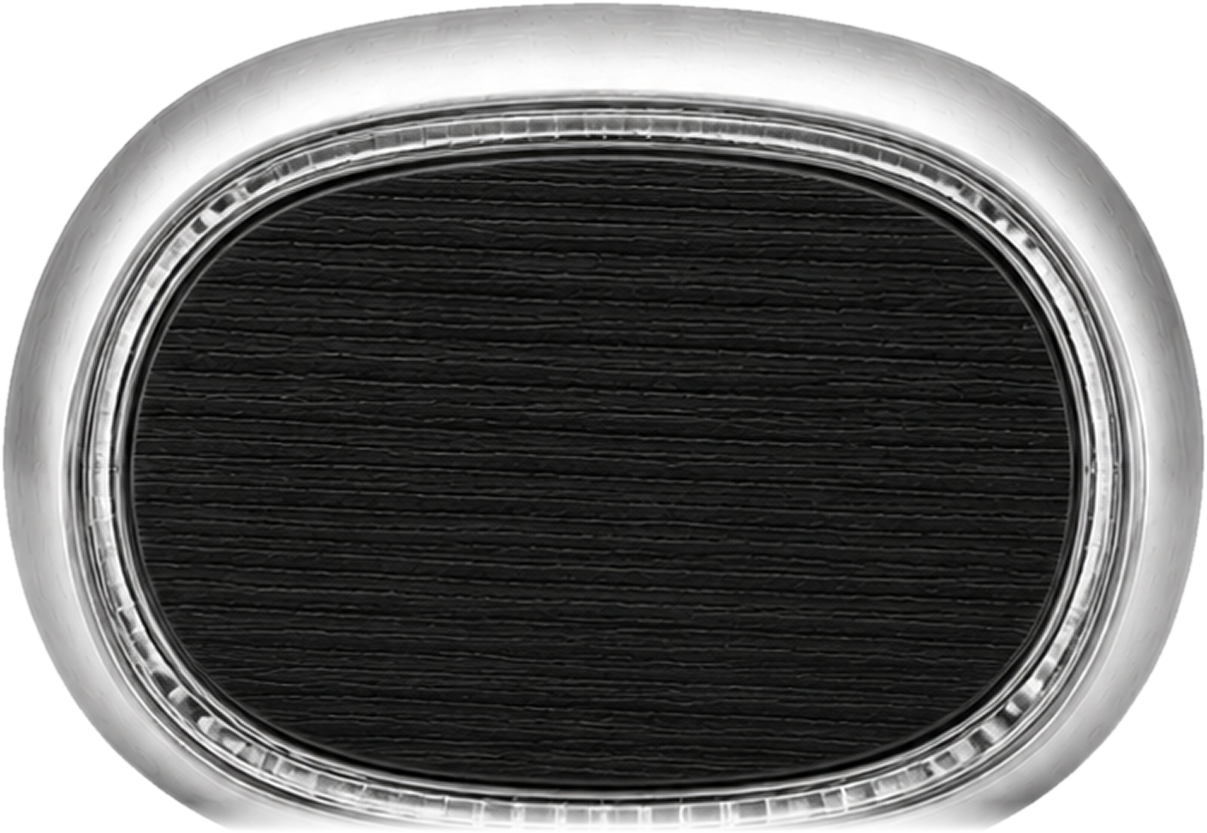
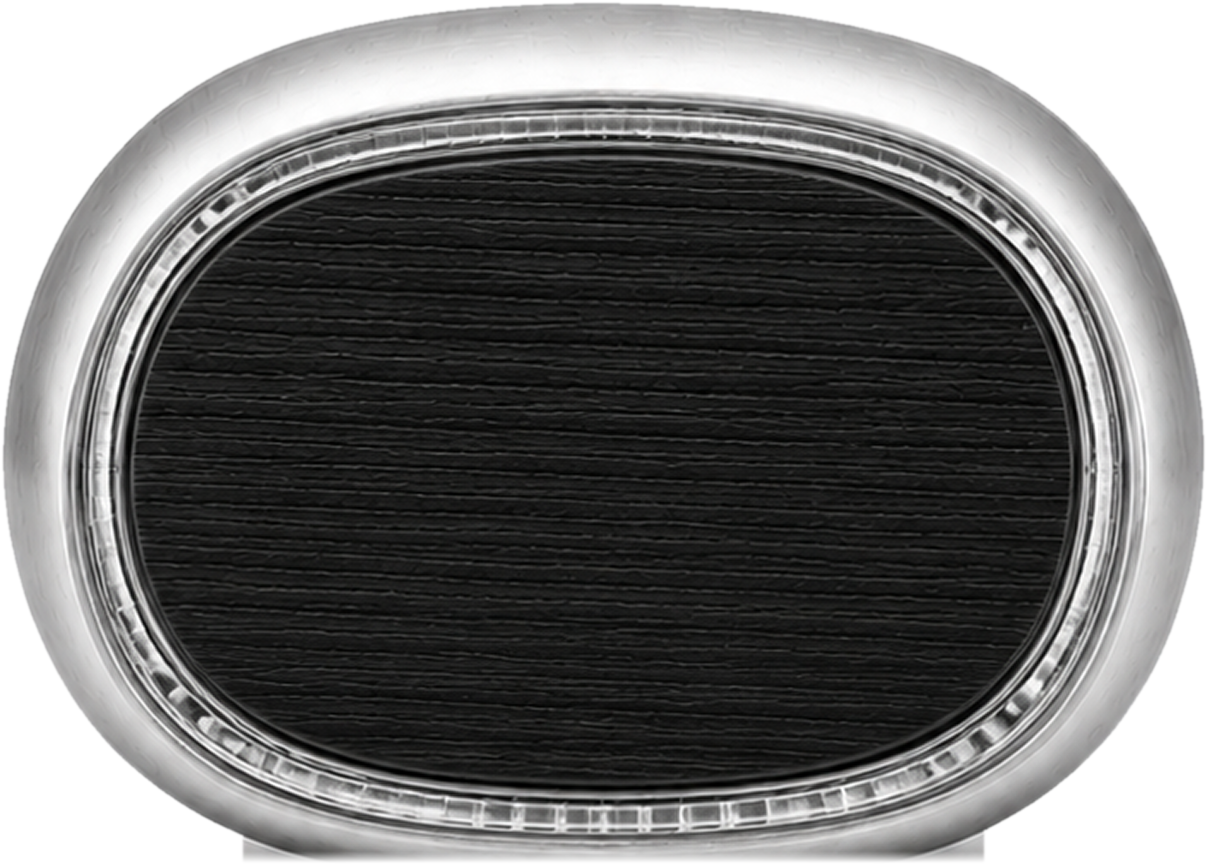
製品を切らずに切り抜き、影は付けない
前回の切り抜きは、影の裾が横に広がり始める行で切っていたため、
製品の底面まで一緒に落として見切れていた。

製品の底面と接地影は明度の階調でつながっており、明度では分離できない。
代わりに「鏡面には局所的な明暗差があり、影はなめらか」という差を使い、
行内の隣接画素の最大明暗差が消えた行を製品の下端として判定する方式にした。
実測でA案はy≈1598、B案はy≈1628で鏡面の構造が消え、目視の底面位置と一致する。

影はCSSからも外した（.shot は画像の表示幅を決めるラッパーとして残す）。

diff --git a/assets/css/book.css b/assets/css/book.css
@@ -153,31 +153,10 @@ body.book {
 /* ロゴ。必ず assets/img/logo-*.svg（Figma書き出しの公式データ）を使う */
 .logo { display: block; width: 100%; height: auto; }
 
-/* 製品画像。元画像に焼き込まれた白背景用の影は切り抜きで除いてあるので、
-   黒地に合う影をここで作る。手前から順に、接地影（::after）と
-   広く薄いアンビエント（::before）の2層。 */
-.shot { position: relative; display: inline-block; line-height: 0; }
-.shot img { position: relative; z-index: 1; display: block; width: 100%; height: auto; }
-.shot::before,
-.shot::after {
-  content: "";
-  position: absolute;
-  left: 50%;
-  transform: translateX(-50%);
-  border-radius: 50%;
-  z-index: 0;
-  pointer-events: none;
-}
-.shot::before {
-  width: 118%; height: 24%; bottom: -10%;
-  background: radial-gradient(closest-side, rgba(0, 0, 0, 0.62), rgba(0, 0, 0, 0) 100%);
-  filter: blur(20px);
-}
-.shot::after {
-  width: 66%; height: 8%; bottom: -2%;
-  background: radial-gradient(closest-side, rgba(0, 0, 0, 0.95), rgba(0, 0, 0, 0) 100%);
-  filter: blur(8px);
-}
+/* 製品画像。透過PNGをそのまま置く（影は付けない）。
+   .shot は画像の表示幅を決めるためのラッパー。 */
+.shot { display: inline-block; line-height: 0; }
+.shot img { display: block; width: 100%; height: auto; }
 
 /* ---------- 各ページ固有 ---------- */
 

diff --git a/tools/cutout.py b/tools/cutout.py
@@ -1,38 +1,44 @@
 """白背景の製品レンダリングを、製品だけの透過PNGに変換する。
 
 元画像には白背景用のドロップシャドウが焼き込まれている。そのまま切り抜くと
-暗い背景では製品の下に灰色の溜まりとして残ってしまう。
+暗い背景では製品の下に灰色の溜まりとして残る。
 
-製品の底面と接地影は階調的に融合していて明度では分離できないため、
-「輪郭の幅は中央から下へ単調に狭くなる」という製品形状の性質を使い、
-幅が再び広がり始める行（＝影の裾が始まる位置）から下を落とす。
-切断面は最下部を数%フェードさせて消す。底面は十分暗いため黒地では目立たない。
-
-影は book.css 側で背景に合わせて作り直す。
+製品の底面と接地影は明度の階調でつながっているため、明度だけでは分離できない。
+代わりに「鏡面には局所的な明暗差（構造）があり、影はなめらか」という差を使う。
+行内の隣接画素の最大明暗差を見て、それが消えた行を製品の下端とする。
 
   使い方:  python3 tools/cutout.py assets/img/src/product-a.png assets/img/product-a.png
 """
 import sys
 from PIL import Image, ImageFilter
 
-OUTLINE_MAX = 200   # 製品の輪郭を拾う明度。鏡面リムの外周までここに収まる
-FLARE_SLACK = 4     # この画素数を超えて幅が広がったら影の裾とみなす
-FADE_RATIO = 0.035  # 切断面を消すための下端フェード（シルエット高さに対する比率）
-FEATHER = 1.1       # 輪郭のぼかし半径（px）
-MAX_WIDTH = 1400    # web用の長辺
+OUTLINE_MAX = 200     # 輪郭判定の明度。明るい鏡面リムの外周までここに収まる
+STRUCTURE_MIN = 10    # 行内にこれ以上の明暗差があれば、まだ製品（鏡面）の行
+STRUCTURE_RUN = 3     # 構造のない行がこの数だけ続いたら製品の下端とみなす
+FADE_RATIO = 0.012    # 下端の切り口を消すフェード（シルエット高さに対する比率）
+FEATHER = 1.1         # 輪郭のぼかし半径（px）
+MAX_WIDTH = 1400      # web用の長辺
 
 
-def row_extents(rgb, w, h):
+def luminance_rows(rgb, w, h):
     px = rgb.load()
-    out = []
+    rows = []
     for y in range(h):
-        left = right = -1
+        row = bytearray(w)
         for x in range(w):
             r, g, b = px[x, y]
-            v = r if r < g else g
-            if b < v:
-                v = b
-            if v <= OUTLINE_MAX:
+            m = r if r < g else g
+            row[x] = b if b < m else m
+        rows.append(row)
+    return rows
+
+
+def row_extents(rows, w):
+    out = []
+    for row in rows:
+        left = right = -1
+        for x in range(w):
+            if row[x] <= OUTLINE_MAX:
                 if left < 0:
                     left = x
                 right = x
@@ -40,26 +46,48 @@ def row_extents(rgb, w, h):
     return out
 
 
-def drop_shadow_flare(extents):
-    """最も広い行から下へたどり、幅が広がりに転じた行以降を捨てる。"""
+def has_structure(row, e):
+    """行内の隣接画素の最大明暗差。鏡面なら大きく、なめらかな影なら小さい。"""
+    if not e or e[1] <= e[0]:
+        return False
+    for i in range(e[0], e[1]):
+        if abs(row[i + 1] - row[i]) >= STRUCTURE_MIN:
+            return True
+    return False
+
+
+def trim(rows, extents):
+    """最も広い行から下へたどり、鏡面の構造が消えた行より下を落とす。
+    あわせて、行幅が下に向かって広がらないよう制限し、影の裾を含めない。"""
     widths = [(e[1] - e[0] + 1) if e else -1 for e in extents]
     widest = widths.index(max(widths))
 
-    cut = len(extents)
+    quiet = 0
+    bottom = len(extents)
     for y in range(widest + 1, len(extents)):
-        if widths[y] < 0:
-            cut = y
+        if extents[y] is None:
+            bottom = y
             break
-        if widths[y] > widths[y - 1] + FLARE_SLACK:
-            cut = y
+        quiet = 0 if has_structure(rows[y], extents[y]) else quiet + 1
+        if quiet >= STRUCTURE_RUN:
+            bottom = y - quiet + 1
             break
-    for y in range(cut, len(extents)):
+
+    for y in range(bottom, len(extents)):
         extents[y] = None
+
+    prev = extents[widest]
+    for y in range(widest + 1, bottom):
+        e = extents[y]
+        if e is None:
+            continue
+        left, right = max(e[0], prev[0]), min(e[1], prev[1])
+        extents[y] = prev = (left, right) if left <= right else prev
     return extents
 
 
 def build_mask(extents, w, h):
-    """行ごとの左端〜右端を塗る。製品は凸形状なので、内部の鏡面ハイライト
+    """行ごとに左端〜右端を塗る。製品は凸形状なので、内部の鏡面ハイライト
     （白に近く閾値から漏れる部分）もこれで過不足なく埋まる。"""
     mask = bytearray(w * h)
     for y, e in enumerate(extents):
@@ -72,6 +100,7 @@ def build_mask(extents, w, h):
 
 
 def fade_bottom(mask, extents, w):
+    """下端の切り口だけを数px分フェードさせて、水平の断面線を消す。"""
     rows = [y for y, e in enumerate(extents) if e]
     if not rows:
         return mask
@@ -79,7 +108,7 @@ def fade_bottom(mask, extents, w):
     span = max(int((bottom - top) * FADE_RATIO), 1)
     for i in range(span):
         y = bottom - i
-        a = int(255 * (i + 1) / (span + 1))  # 下端ほど薄く
+        a = int(255 * (i + 1) / (span + 1))
         base = y * w
         for x in range(w):
             if mask[base + x]:
@@ -91,9 +120,9 @@ def main(src, dst):
     im = Image.open(src).convert("RGB")
     w, h = im.size
 
-    extents = drop_shadow_flare(row_extents(im, w, h))
-    mask = build_mask(extents, w, h)
-    mask = fade_bottom(mask, extents, w)
+    rows = luminance_rows(im, w, h)
+    extents = trim(rows, row_extents(rows, w))
+    mask = fade_bottom(build_mask(extents, w, h), extents, w)
 
     m = Image.frombytes("L", (w, h), bytes(mask))
     # 輪郭を1px内側に削ってから軽くぼかす。
@@ -103,8 +132,6 @@ def main(src, dst):
     out = im.convert("RGBA")
     out.putalpha(m)
 
-    # 余白なしで切り出す。製品の下端＝画像の下端になるので、
-    # CSS側で接地影を置く位置が一意に決まる。
     bbox = out.getbbox()
     if bbox:
         out = out.crop(bbox)
